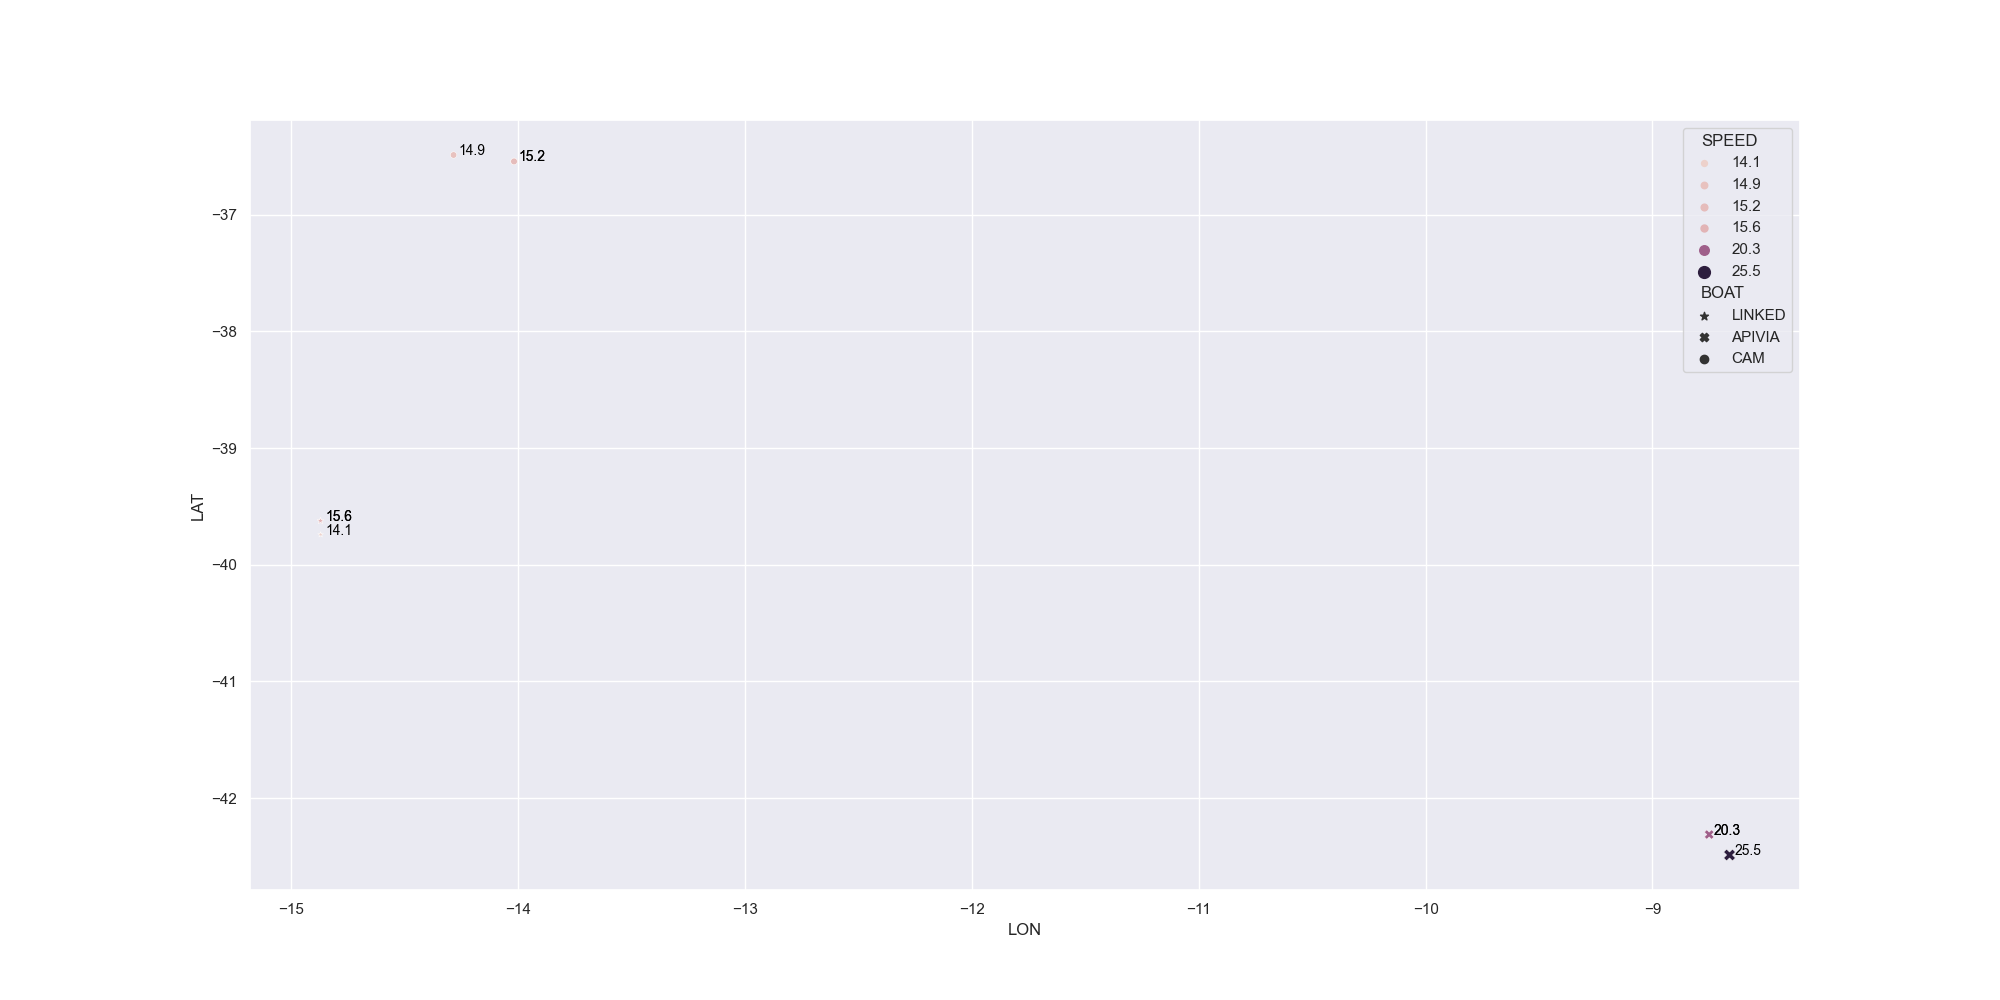
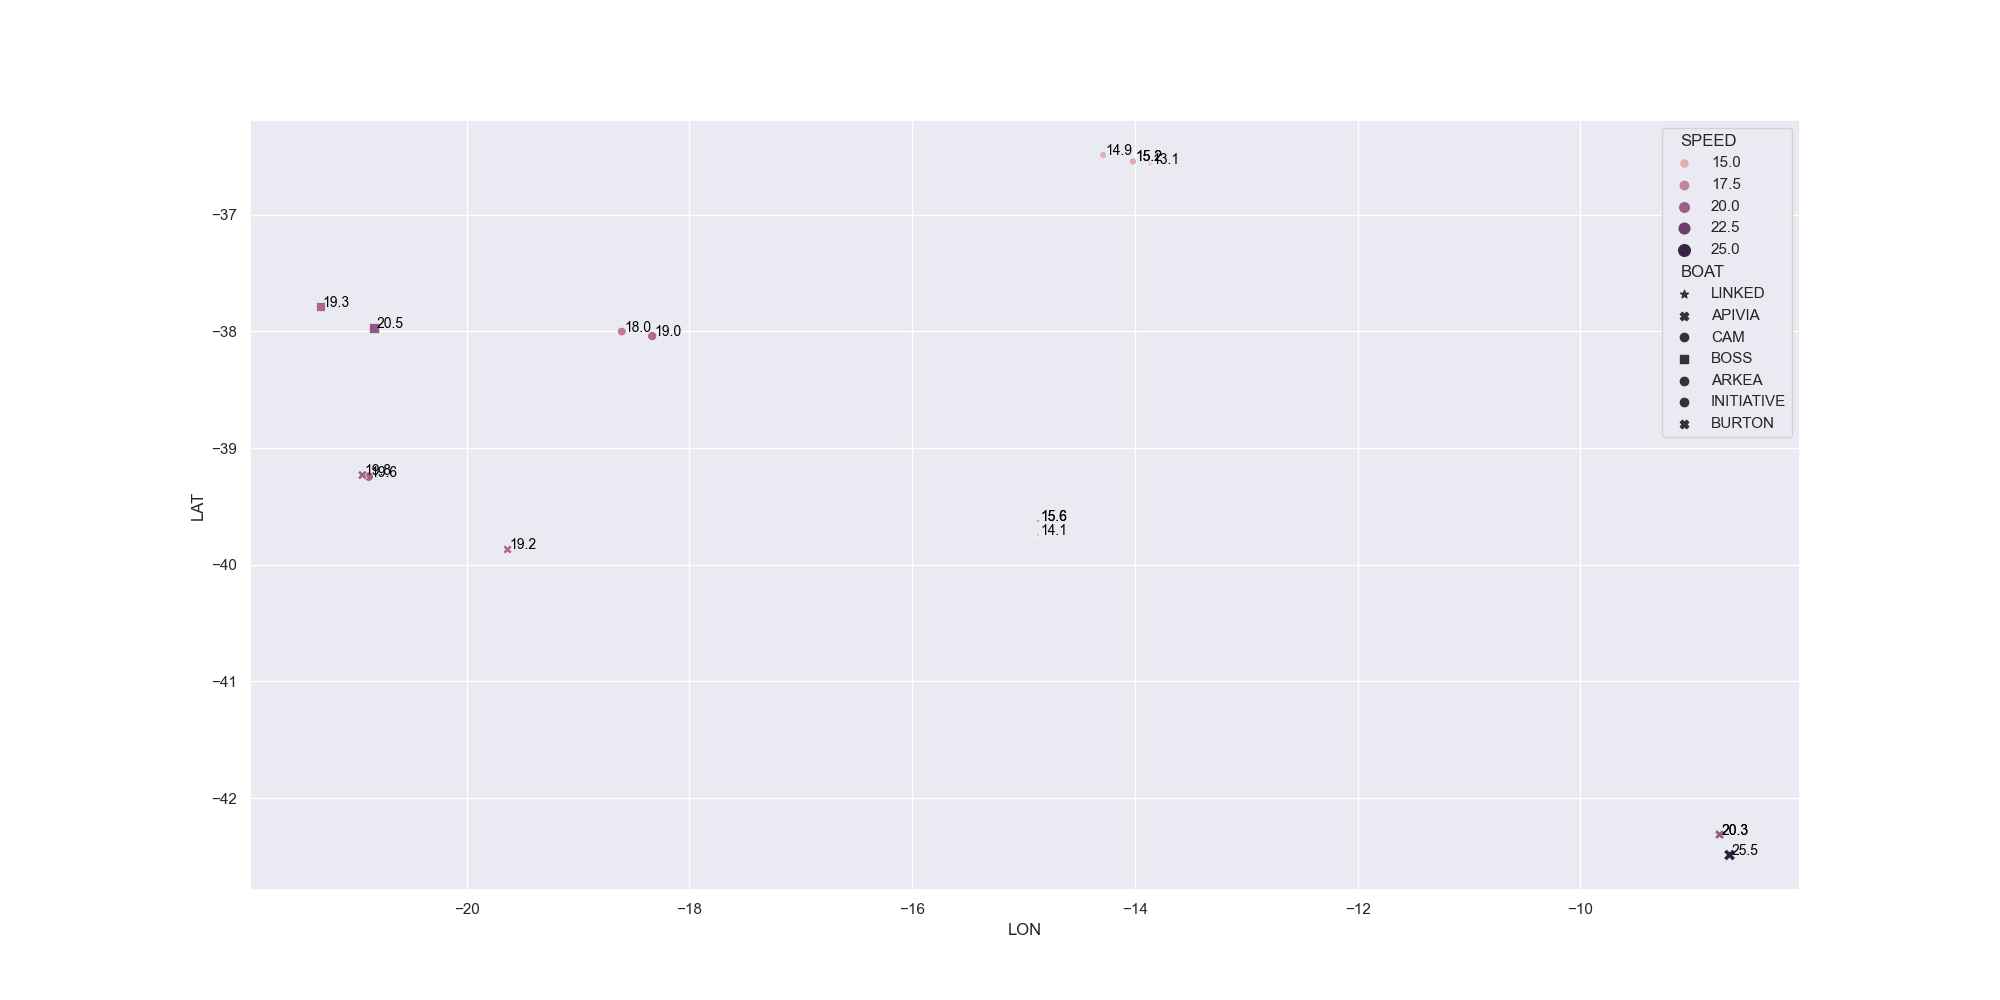
Enabled all boats

diff --git a/config.py b/config.py
@@ -1,8 +1,8 @@
 CONFIG = {'LINKED': 'https://www.marinetraffic.com/en/ais/home/centerx:-14.9/centery:-39.6/zoom:11',
-          # 'BOSS': 'https://www.marinetraffic.com/en/ais/home/centerx:-24.402/centery:-36.782/zoom:13',
+          'BOSS': 'https://www.marinetraffic.com/en/ais/home/centerx:-20.928/centery:-37.930/zoom:13',
           'APIVIA': 'https://www.marinetraffic.com/en/ais/home/centerx:-8.4/centery:-42.1/zoom:9',
           'CAM': 'https://www.marinetraffic.com/en/ais/home/centerx:-14.1/centery:-36.6/zoom:11',
-          # 'ARKEA': 'https://www.marinetraffic.com/en/ais/home/centerx:-21.8/centery:-37.1/zoom:11',
-          # 'INITIATIVE': 'https://www.marinetraffic.com/en/ais/home/centerx:-23.990/centery:-38.377/zoom:13',
-          # 'BURTON': 'https://www.marinetraffic.com/en/ais/home/centerx:-23.808/centery:-38.884/zoom:13'
+           'ARKEA': 'https://www.marinetraffic.com/en/ais/home/centerx:-18.304/centery:-38.045/zoom:14',
+           'INITIATIVE': 'https://www.marinetraffic.com/en/ais/home/centerx:-20.849/centery:-39.278/zoom:12',
+           'BURTON': 'https://www.marinetraffic.com/en/ais/home/centerx:-19.6/centery:-40.0/zoom:11'
           }

diff --git a/main.py b/main.py
@@ -119,7 +119,7 @@ def mainloop():
         print('----------------------')
         plot(datafile)
         driver.quit()
-    except Exception as e:
+    except Exception as e:  # Hehe this is fine
         print(e)
         driver.close()
         driver.quit()
